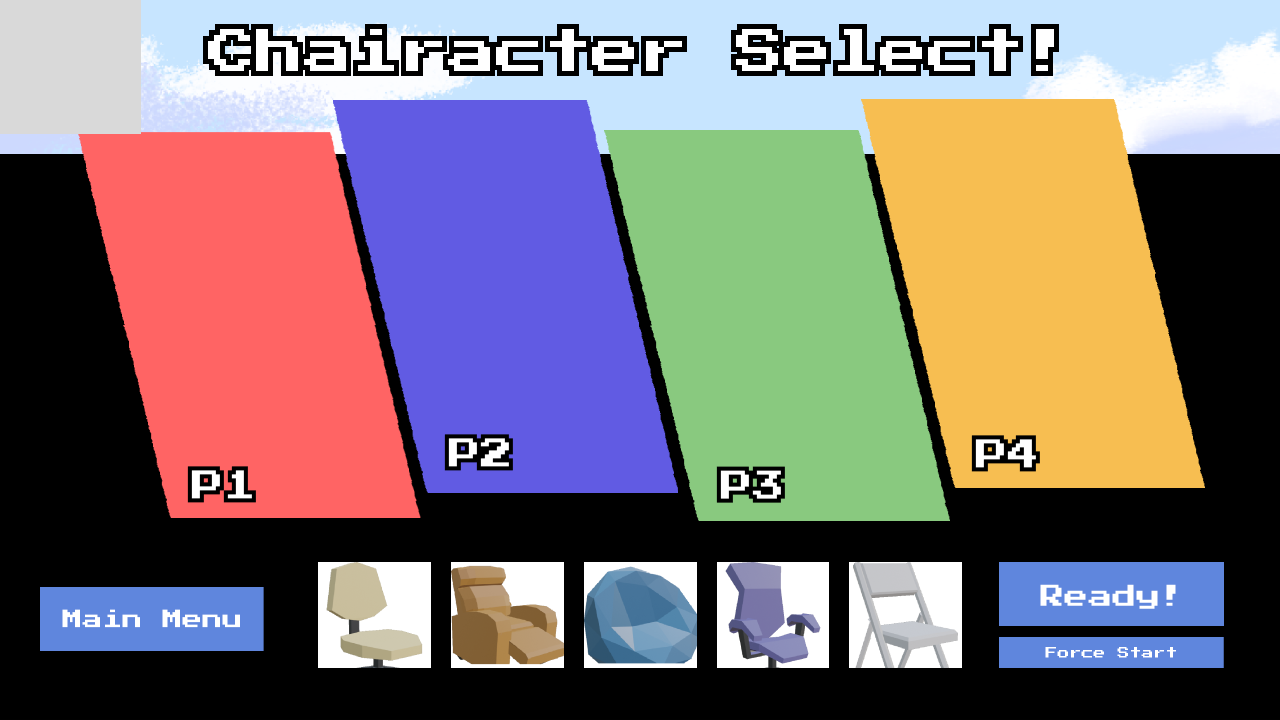
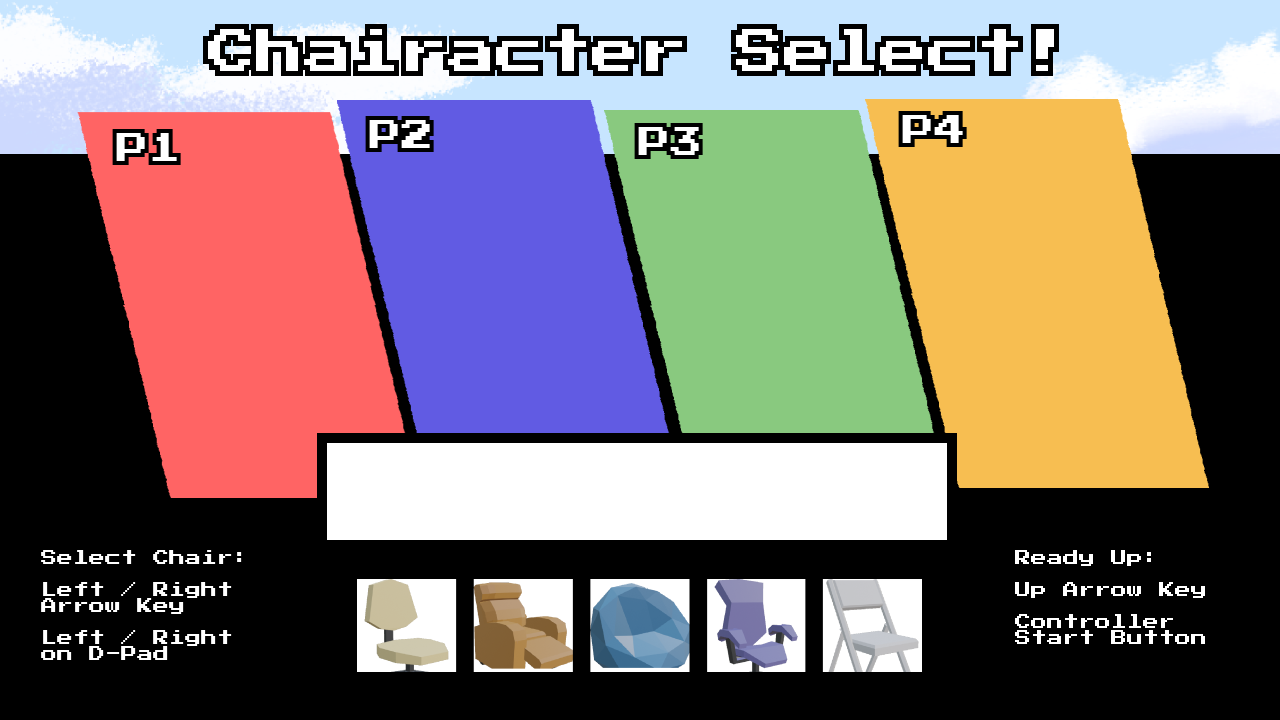
Update chairacter select, create final standings (#91)
* Add image assets

* Include descriptions with chairacter select

diff --git a/chariot-client/src/ui_state.rs b/chariot-client/src/ui_state.rs
@@ -40,6 +40,7 @@ pub enum UIState {
     ChairacterSelect {
         background: UIDrawable,
         chair_select_box: UIDrawable,
+        chair_description: UIDrawable,
         player_chair_images: Vec<Option<UIDrawable>>,
     },
     InGameHUD {
@@ -305,40 +306,68 @@ impl GraphicsManager {
             ImageFormat::Png,
         );
 
+        let chair_description_handle = self.resources.import_texture_embedded(
+            &self.renderer,
+            "swivel_description",
+            assets::ui::get_chair_description(Chair::Swivel),
+            ImageFormat::Png,
+        );
+
         let chair_select_box_texture = self
             .resources
             .textures
             .get(&chair_select_box_handle)
             .expect("background doesn't exist!");
 
+        let chair_description_texture = self
+            .resources
+            .textures
+            .get(&chair_description_handle)
+            .expect("description doesn't exist!");
+
         let layer_vec = vec![technique::UILayerTechnique::new(
             &self.renderer,
-            glam::vec2(304.0 / 1280.0, 548.0 / 720.0),
-            glam::vec2(141.0 / 1280.0, 134.0 / 720.0),
+            glam::vec2(343.0 / 1280.0, 565.0 / 720.0),
+            glam::vec2(128.0 / 1280.0, 122.0 / 720.0),
             glam::vec2(0.0, 0.0),
             glam::vec2(1.0, 1.0),
             &chair_select_box_texture,
         )];
 
         let chair_select_box = UIDrawable { layers: layer_vec };
+
+        let layer_vec = vec![technique::UILayerTechnique::new(
+            &self.renderer,
+            glam::vec2(317.0 / 1280.0, 433.0 / 720.0),
+            glam::vec2(640.0 / 1280.0, 117.0 / 720.0),
+            glam::vec2(0.0, 0.0),
+            glam::vec2(1.0, 1.0),
+            &chair_description_texture,
+        )];
+
+        let chair_description = UIDrawable { layers: layer_vec };
+
         self.ui = UIState::ChairacterSelect {
             background,
             chair_select_box,
+            chair_description,
             player_chair_images: vec![None, None, None, None],
         };
     }
 
     pub fn maybe_select_chair(&mut self, chair: Chair) {
         if let UIState::ChairacterSelect {
-            chair_select_box, ..
+            chair_select_box,
+            chair_description,
+            ..
         } = &mut self.ui
         {
             let position = match chair {
-                Chair::Swivel => glam::vec2(304.0 / 1280.0, 548.0 / 720.0),
-                Chair::Recliner => glam::vec2(437.0 / 1280.0, 548.0 / 720.0),
-                Chair::Beanbag => glam::vec2(570.0 / 1280.0, 548.0 / 720.0),
-                Chair::Ergonomic => glam::vec2(703.0 / 1280.0, 548.0 / 720.0),
-                Chair::Folding => glam::vec2(835.0 / 1280.0, 548.0 / 720.0),
+                Chair::Swivel => glam::vec2(343.0 / 1280.0, 565.0 / 720.0),
+                Chair::Recliner => glam::vec2(460.0 / 1280.0, 565.0 / 720.0),
+                Chair::Beanbag => glam::vec2(576.0 / 1280.0, 565.0 / 720.0),
+                Chair::Ergonomic => glam::vec2(693.0 / 1280.0, 565.0 / 720.0),
+                Chair::Folding => glam::vec2(809.0 / 1280.0, 565.0 / 720.0),
             };
             // not sure the best way to change the position; for now, I'm just rerendering completely
             let chair_select_box_handle = self.resources.import_texture_embedded(
@@ -348,22 +377,46 @@ impl GraphicsManager {
                 ImageFormat::Png,
             );
 
+            let chair_description_handle = self.resources.import_texture_embedded(
+                &self.renderer,
+                format!("{}_description", chair.file()).as_str(),
+                assets::ui::get_chair_description(chair),
+                ImageFormat::Png,
+            );
+
             let chair_select_box_texture = self
                 .resources
                 .textures
                 .get(&chair_select_box_handle)
                 .expect("chair select box doesn't exist!");
 
+            let chair_description_texture = self
+                .resources
+                .textures
+                .get(&chair_description_handle)
+                .expect("description doesn't exist!");
+
             let layer_vec = vec![technique::UILayerTechnique::new(
                 &self.renderer,
                 position,
-                glam::vec2(141.0 / 1280.0, 134.0 / 720.0),
+                glam::vec2(127.0 / 1280.0, 121.0 / 720.0),
                 glam::vec2(0.0, 0.0),
                 glam::vec2(1.0, 1.0),
                 &chair_select_box_texture,
             )];
 
             *chair_select_box = UIDrawable { layers: layer_vec };
+
+            let layer_vec = vec![technique::UILayerTechnique::new(
+                &self.renderer,
+                glam::vec2(317.0 / 1280.0, 433.0 / 720.0),
+                glam::vec2(640.0 / 1280.0, 117.0 / 720.0),
+                glam::vec2(0.0, 0.0),
+                glam::vec2(1.0, 1.0),
+                &chair_description_texture,
+            )];
+
+            *chair_description = UIDrawable { layers: layer_vec };
 
             for (player_id, choice) in self.player_choices.clone().iter().flatten().enumerate() {
                 self.maybe_display_chair(choice.chair, player_id);

diff --git a/chariot-client/src/assets/ui/mod.rs b/chariot-client/src/assets/ui/mod.rs
@@ -33,6 +33,23 @@ pub fn get_chair_image(chair: Chair) -> &'static [u8] {
     }
 }
 
+// chair descriptions
+const BEANBAG_DESCRIPTION: &[u8] = include_bytes!("chair-select/descriptions/beanbag.png");
+const ERGONOMIC_DESCRIPTION: &[u8] = include_bytes!("chair-select/descriptions/ergonomic.png");
+const FOLDING_DESCRIPTION: &[u8] = include_bytes!("chair-select/descriptions/folding.png");
+const RECLINER_DESCRIPTION: &[u8] = include_bytes!("chair-select/descriptions/recliner.png");
+const SWIVEL_DESCRIPTION: &[u8] = include_bytes!("chair-select/descriptions/swivel.png");
+
+pub fn get_chair_description(chair: Chair) -> &'static [u8] {
+    match chair {
+        Chair::Swivel => SWIVEL_DESCRIPTION,
+        Chair::Recliner => RECLINER_DESCRIPTION,
+        Chair::Beanbag => BEANBAG_DESCRIPTION,
+        Chair::Ergonomic => ERGONOMIC_DESCRIPTION,
+        Chair::Folding => FOLDING_DESCRIPTION,
+    }
+}
+
 // minimap
 pub const TRACK_TRANSPARENT: &[u8] = include_bytes!("minimap/track_transparent.png");
 const P1_BUTTON: &[u8] = include_bytes!("map-select/P1Btn.png");

diff --git a/chariot-client/src/graphics.rs b/chariot-client/src/graphics.rs
@@ -891,6 +891,7 @@ impl GraphicsManager {
             UIState::ChairacterSelect {
                 background,
                 chair_select_box,
+                chair_description,
                 player_chair_images,
             } => {
                 let background_graph = background.render_graph(&render_context);
@@ -903,6 +904,10 @@ impl GraphicsManager {
                     let chair_graph = chair_image.render_graph(&render_context);
                     render_job.merge_graph_after(SimpleFSQTechnique::PASS_NAME, chair_graph);
                 }
+
+                let chair_description_box_graph = chair_description.render_graph(&render_context);
+                render_job
+                    .merge_graph_after(SimpleFSQTechnique::PASS_NAME, chair_description_box_graph);
             }
             UIState::InGameHUD {
                 place_position_image,
